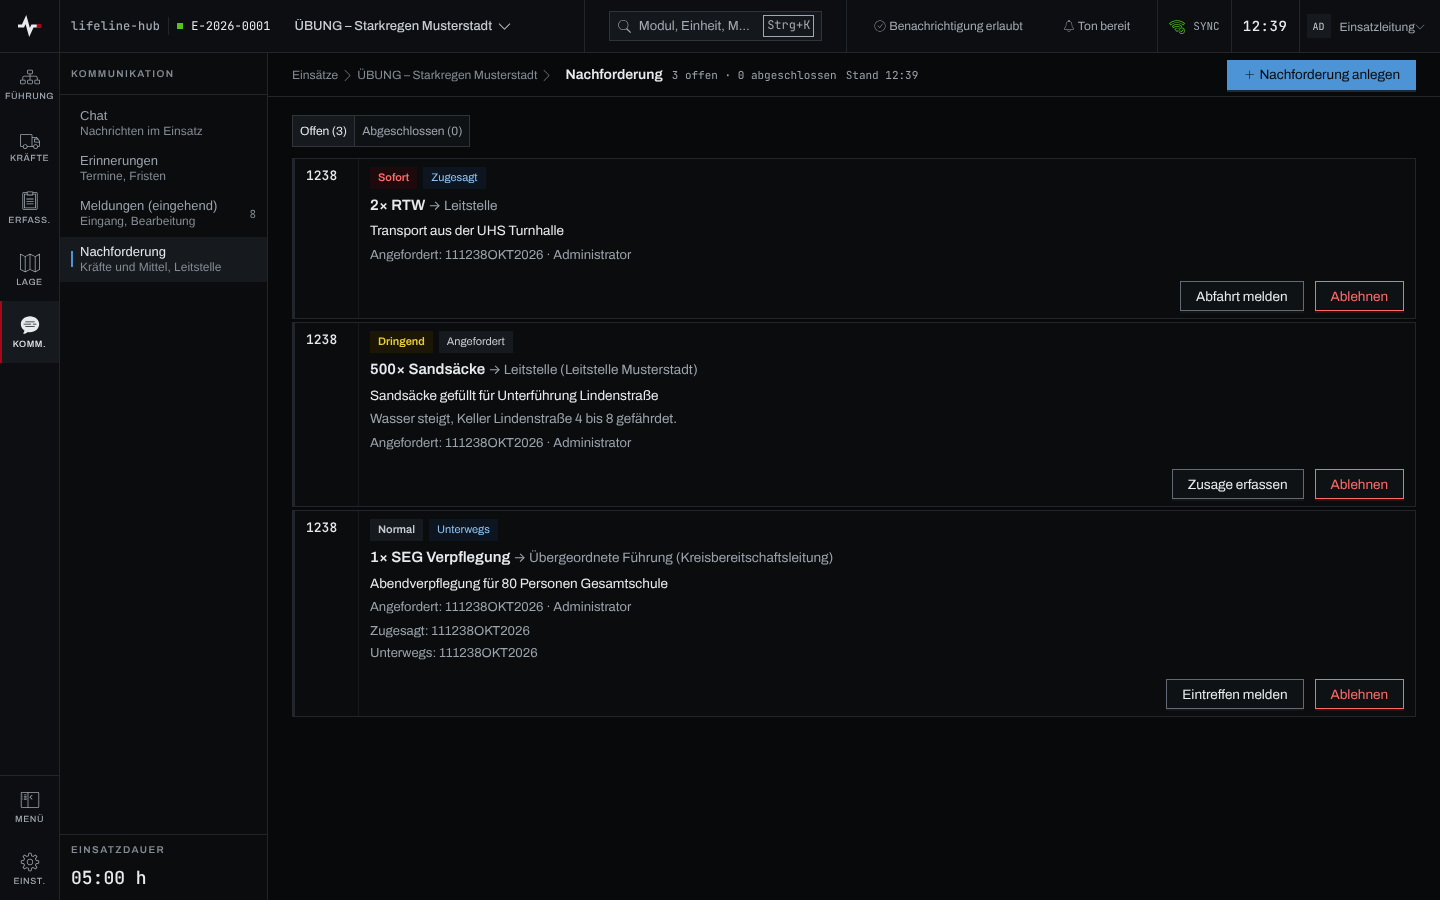
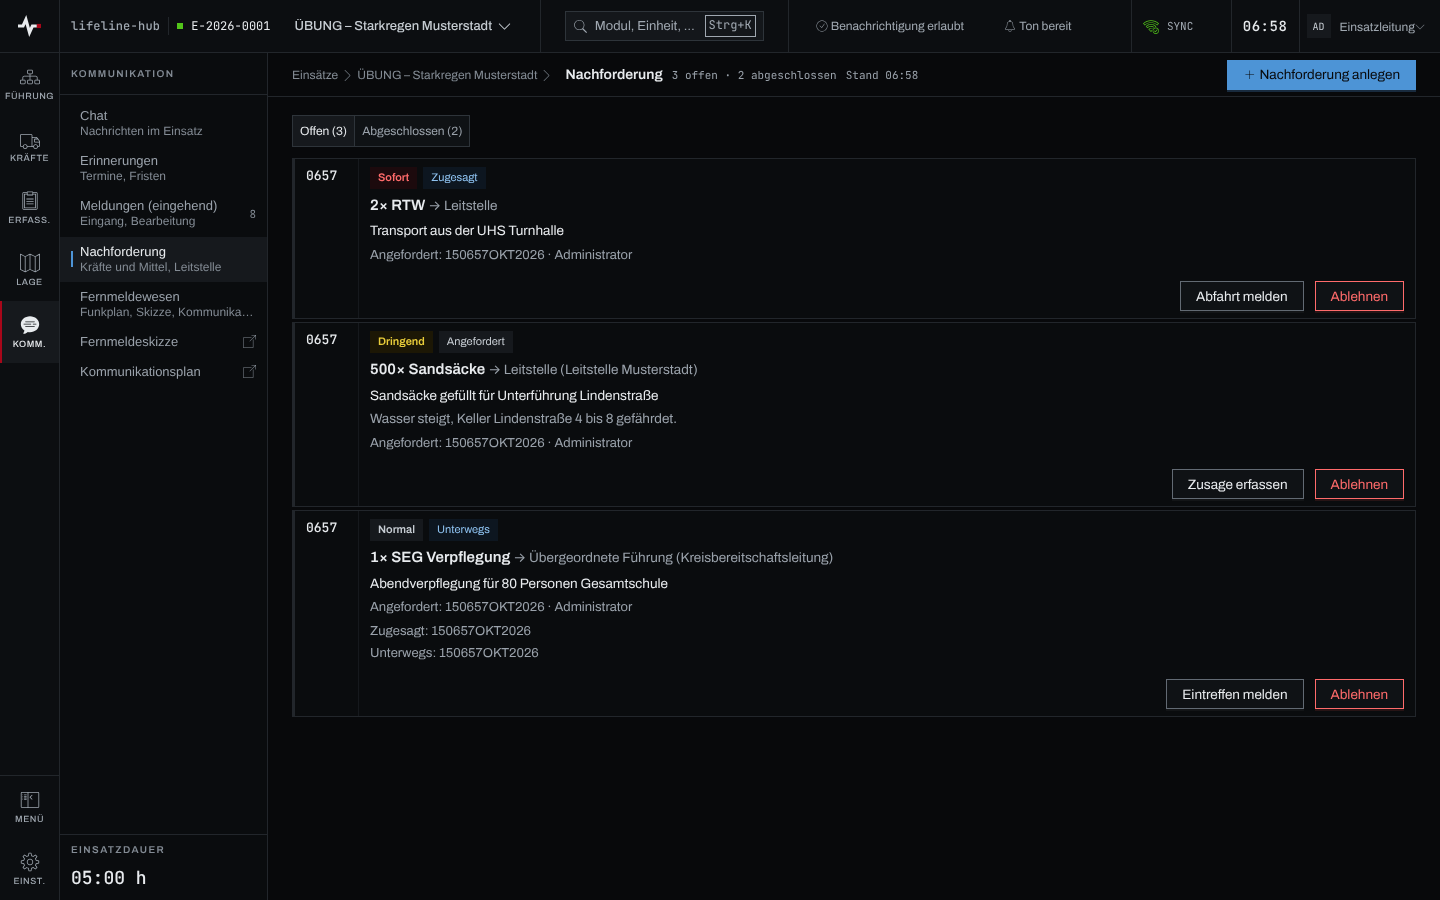
docs(nachforderung): Material übernehmen im Kapitel, zwei Bilder (LLH-1226)
Abläufe „Eingetroffenes Material übernehmen“ und „Weiteren Posten
übernehmen“, Hintergrund „Übernommenes Material“ (Vorbelegung, je
Stück, bewusst ergänzen, Storno, Rechte, ETB-Wortlaut) und die
Rücknahmesperre unter „Ablauf der Stufen“. Die Bilder-Spec füllt zwei
eingetroffene Nachforderungen; die Liste zeigt den neuen Zähler
„Abgeschlossen (2)“.

Zunder: https://zunder.rubeen.dev/#/aufgabe/mspu3hvbdvhvt4sarlgwjdsx

Claude-Session: https://claude.ai/code/session_01DDFgqKuDE2TAXVLAHHoUGt

diff --git a/frontend/e2e/doku-bilder/nachforderung.bilder.ts b/frontend/e2e/doku-bilder/nachforderung.bilder.ts
@@ -1,4 +1,5 @@
 import type { APIRequestContext, Page } from '@playwright/test';
+import { waehleIn } from '../auswahl-kern';
 import {
   anmelden,
   apiAlsAdmin,
@@ -19,6 +20,11 @@ import {
  *                                frontend/src/nachforderungen/NachforderungKarte.tsx
  *   nachforderung-absetzen.png   frontend/src/nachforderungen/NachforderungFormular.tsx
  *   nachforderung-ablehnen.png   frontend/src/pages/NachforderungenPage.tsx (Ablehnen)
+ *   nachforderung-material-uebernehmen.png
+ *                                frontend/src/nachforderungen/MaterialUebernahmeModal.tsx
+ *   nachforderung-material-posten.png
+ *                                frontend/src/nachforderungen/NachforderungKarte.tsx
+ *                                (übernommene Posten)
  */
 
 const KAPITEL = 'nachforderung';
@@ -59,6 +65,44 @@ async function nachforderungenFuellen(api: APIRequestContext) {
   });
   await fuelle(api, 'post', `${basis}/${seg.id}/status`, { status: 'zugesagt' });
   await fuelle(api, 'post', `${basis}/${seg.id}/status`, { status: 'unterwegs' });
+
+  // Zwei eingetroffene für „Als Material übernehmen“ (LLH-1226): Tauchpumpen noch ohne Posten,
+  // Sandsäcke mit einer Teillieferung, die schon als Posten an der Rettungsstaffel steht.
+  const eintreffen = async (id: number) => {
+    for (const status of ['zugesagt', 'unterwegs', 'eingetroffen']) {
+      await fuelle(api, 'post', `${basis}/${id}/status`, { status });
+    }
+  };
+  const pumpen = await anlegen({
+    art: 'Tauchpumpe',
+    anzahl: 3,
+    bezeichnung: '3 Tauchpumpen für Keller Hauptstraße',
+    adressat_kategorie: 'leitstelle',
+    prioritaet: 'dringend',
+  });
+  await eintreffen(pumpen.id);
+  const saecke = await anlegen({
+    art: 'Sandsäcke',
+    anzahl: 2000,
+    bezeichnung: 'Sandsäcke für Deich Nord',
+    adressat_kategorie: 'uebergeordnet',
+    adressat_bezeichnung: 'Kreisbereitschaftsleitung',
+    prioritaet: 'dringend',
+  });
+  await eintreffen(saecke.id);
+  const antwort = await api.get(`/api/einsaetze/${demo.id}/einheiten`);
+  expect(antwort.ok(), `Einheiten: ${antwort.status()}`).toBe(true);
+  const staffel = ((await antwort.json()) as { id: number; name: string }[]).find(
+    (e) => e.name === 'Rettungsstaffel',
+  );
+  expect(staffel, 'Demo-Einheit „Rettungsstaffel“ fehlt').toBeTruthy();
+  await fuelle(api, 'post', `/api/einsaetze/${demo.id}/material`, {
+    adhoc: { bezeichnung: 'Sandsäcke' },
+    menge: 1200,
+    art: 'verbrauchsgut',
+    einheit_id: staffel!.id,
+    nachforderung_id: saecke.id,
+  });
 }
 
 /** Öffnet die Nachforderungen des Demo-Einsatzes. */
@@ -115,5 +159,30 @@ test.describe(KAPITEL, () => {
       .fill('Keine Sandsäcke im Lager, Anforderung über Nachbarkreis.');
     await fokusWeg(page);
     await fotografiere(dialog, KAPITEL, 'nachforderung-ablehnen');
+  });
+
+  test('Dialog „Als Material übernehmen“', async ({ page }) => {
+    await nachforderungenOeffnen(page);
+    await page.getByRole('radio', { name: /Abgeschlossen/ }).click();
+    const karte = page.locator('[data-nachforderung-id]', {
+      hasText: '3 Tauchpumpen für Keller Hauptstraße',
+    });
+    await karte.getByRole('button', { name: 'Als Material übernehmen' }).click();
+    const dialog = page.getByRole('dialog', { name: '„Tauchpumpe“ als Material übernehmen' });
+    await dialog.getByRole('radio', { name: 'Gerät' }).click();
+    await expect(dialog.getByRole('spinbutton', { name: 'Menge' })).toHaveValue('1');
+    await waehleIn(dialog.getByRole('combobox', { name: 'Ort' }), 'Rettungsstaffel');
+    await fokusWeg(page);
+    await fotografiere(dialog, KAPITEL, 'nachforderung-material-uebernehmen');
+  });
+
+  test('Karte mit übernommenem Posten', async ({ page }) => {
+    await nachforderungenOeffnen(page);
+    await page.getByRole('radio', { name: /Abgeschlossen/ }).click();
+    const karte = page.locator('[data-nachforderung-id]', { hasText: 'Sandsäcke für Deich Nord' });
+    await expect(karte).toContainText('übernommen 1200 von 2000');
+    await expect(karte.getByRole('button', { name: 'Weiteren Posten übernehmen' })).toBeVisible();
+    await fokusWeg(page);
+    await fotografiere(karte, KAPITEL, 'nachforderung-material-posten');
   });
 });

diff --git a/docs/anwender/kapitel/nachforderung.md b/docs/anwender/kapitel/nachforderung.md
@@ -2,7 +2,7 @@
 titel: Nachforderung
 gruppen: [fuehrung]
 reihenfolge: 140
-quellen: [frontend/src/pages/NachforderungenPage.tsx, frontend/src/nachforderungen/NachforderungFormular.tsx, frontend/src/nachforderungen/NachforderungKarte.tsx, frontend/src/kommunikation/phase.ts, frontend/src/kommunikation/rueckgaengig.tsx, frontend/src/pages/VerpflegungPage.tsx, src/routes/nachforderung.rs, src/nachforderung/repo.rs, src/nachforderung/mod.rs, frontend/src/stammdaten/externeStellenVorschlaege.ts]
+quellen: [frontend/src/pages/NachforderungenPage.tsx, frontend/src/nachforderungen/NachforderungFormular.tsx, frontend/src/nachforderungen/NachforderungKarte.tsx, frontend/src/nachforderungen/MaterialUebernahmeModal.tsx, frontend/src/nachforderungen/materialUebernahme.ts, src/routes/einsatz_material.rs, src/material/mod.rs, migrations/0198_material_nachforderung.sql, frontend/src/kommunikation/phase.ts, frontend/src/kommunikation/rueckgaengig.tsx, frontend/src/pages/VerpflegungPage.tsx, src/routes/nachforderung.rs, src/nachforderung/repo.rs, src/nachforderung/mod.rs, frontend/src/stammdaten/externeStellenVorschlaege.ts]
 ---
 
 ## Überblick
@@ -53,6 +53,39 @@ Für Einsatzleitung und Führungspersonal:
 Ein Hinweis bietet nach jedem Schritt sechs Sekunden lang „Rückgängig“. Eine eingetroffene
 Nachforderung steht in der Ansicht „Abgeschlossen“.
 
+### Eingetroffenes Material übernehmen
+
+Für Einsatzleitung und Führungspersonal, wenn das Modul Material freigegeben ist:
+
+1. In der Ansicht „Abgeschlossen“ an der Karte der eingetroffenen Nachforderung „Als Material
+   übernehmen“ wählen.
+2. Der Dialog nennt im Titel die Art der Nachforderung, etwa „„Tauchpumpe“ als Material
+   übernehmen“, darunter den Bedarf. Unter „Art“ „Gerät“ oder „Verbrauchsgut“ wählen.
+
+   ![Dialog „„Tauchpumpe“ als Material übernehmen“ mit dem Bedarf, Art „Gerät“, Menge 1 gesperrt und der Einheit „Rettungsstaffel“ unter „Ort“](../bilder/nachforderung/nachforderung-material-uebernehmen.png)
+
+3. Unter „Menge“ die Menge prüfen. Bei einem Gerät steht sie fest auf 1.
+4. Unter „Ort“ eine Einheit, ein Fahrzeug, eine UHS oder einen Bereitstellungsraum wählen, oder
+   „ohne Ort“ stehen lassen.
+5. „Übernehmen“ wählen.
+
+Die Karte zeigt danach je übernommenem Posten Bezeichnung, Menge und Ort, bei einer
+Nachforderung mit Anzahl etwa „übernommen 1 von 3“, und „Material ↗“ führt in die
+[Materialliste](material.md).
+
+### Weiteren Posten übernehmen
+
+Für Einsatzleitung und Führungspersonal, etwa für die zweite von drei Tauchpumpen oder die
+nächste Fuhre Sandsäcke:
+
+1. An der Karte „Weiteren Posten übernehmen“ wählen.
+
+   ![Karte einer eingetroffenen Nachforderung „Sandsäcke“ mit dem übernommenen Posten „Sandsäcke · 1200 · Rettungsstaffel“, „übernommen 1200 von 2000“, „Material ↗“ und dem Knopf „Weiteren Posten übernehmen“](../bilder/nachforderung/nachforderung-material-posten.png)
+
+2. Art, Menge und Ort wie beim ersten Posten setzen. Die Menge ist mit dem Rest der Anzahl
+   vorbelegt.
+3. „Weiteren Posten übernehmen“ wählen.
+
 ### Eine Nachforderung ablehnen
 
 Für Einsatzleitung und Führungspersonal:
@@ -92,4 +125,36 @@ Formular mit vorbelegten Feldern ([Verpflegung](verpflegung.md)). Die Felder ble
 Die Stufen laufen vorwärts, jeweils um eine: Angefordert, Zugesagt, Unterwegs, Eingetroffen.
 „Rückgängig“ nimmt den letzten Schritt um genau eine Stufe zurück, solange der Hinweis steht.
 Ablehnen geht aus jeder Stufe vor „Eingetroffen“; was eingetroffen ist, wird nicht mehr
-abgelehnt.
+abgelehnt. Ist aus einer Nachforderung Material übernommen, lässt sich „Eingetroffen“ nicht mehr
+zurücknehmen; die App nennt den Grund über der Liste. Wer versehentlich übernommen hat, storniert
+zuerst den Posten in der [Materialliste](material.md) und nimmt dann zurück.
+
+### Übernommenes Material
+
+Jede Übernahme legt genau einen Ad-hoc-Posten in der Materialliste an, der auf die Nachforderung
+verweist. Seine Bezeichnung ist die Art der Nachforderung, etwa „Tauchpumpe“; Kategorie,
+Trägerorganisation und Bestandsnummer bleiben leer und lassen sich an der Materialzeile über
+„Angaben ändern …“ nachtragen. Vorbelegt sind als Menge die Anzahl der Nachforderung abzüglich
+dessen, was schon übernommen ist (mindestens 1, ohne Anzahl 1), als Art „Verbrauchsgut“ bei einer
+Menge über 1, sonst „Gerät“, und als Ort „ohne Ort“; die Nachforderung selbst kennt keinen Ort.
+
+Ein Gerät steht je Stück im Einsatz: Drei Tauchpumpen sind drei Übernahmen. Auch Verbrauchsgut,
+das in mehreren Fuhren kommt, wird je Fuhre übernommen. Einen weiteren Posten legt die App nur
+ausdrücklich über „Weiteren Posten übernehmen“ an. Hat ein anderer Platz inzwischen übernommen,
+lehnt sie „Übernehmen“ ab und nennt den Grund im Dialog; der Dialog bleibt offen und bietet dann
+„Weiteren Posten übernehmen“ mit der neu gerechneten Menge an. So steht dieselbe Lieferung nicht
+versehentlich zweimal im Bestand.
+
+Ein stornierter Posten zählt nicht als übernommen, ein aus dem Einsatz genommener schon; die
+Karte nennt ihn dann mit „aus dem Einsatz genommen“. Wird ein übernommener Posten aufgeteilt,
+verweisen beide Teile auf die Nachforderung. Die Nachforderung selbst ändert sich durch die
+Übernahme nicht.
+
+Übernehmen dürfen Einsatzleitung und Führungspersonal, wenn das Modul Material für sie
+freigegeben ist. Ist es gesperrt, steht der Knopf gesperrt mit „Keine Berechtigung“, und die
+Karte zeigt statt der Posten nur ihre Zahl, etwa „2 Posten übernommen“.
+
+Jede Übernahme schreibt einen Eintrag ins Einsatztagebuch, etwa „Material «Tauchpumpe» (×1)
+disponiert, Ort Einheit «Rettungsstaffel», aus Nachforderung «3 Tauchpumpen für Keller
+Hauptstraße»“, ohne Ort ohne den Ort-Teil. Die Nachforderung schreibt dafür keinen eigenen
+Eintrag.
